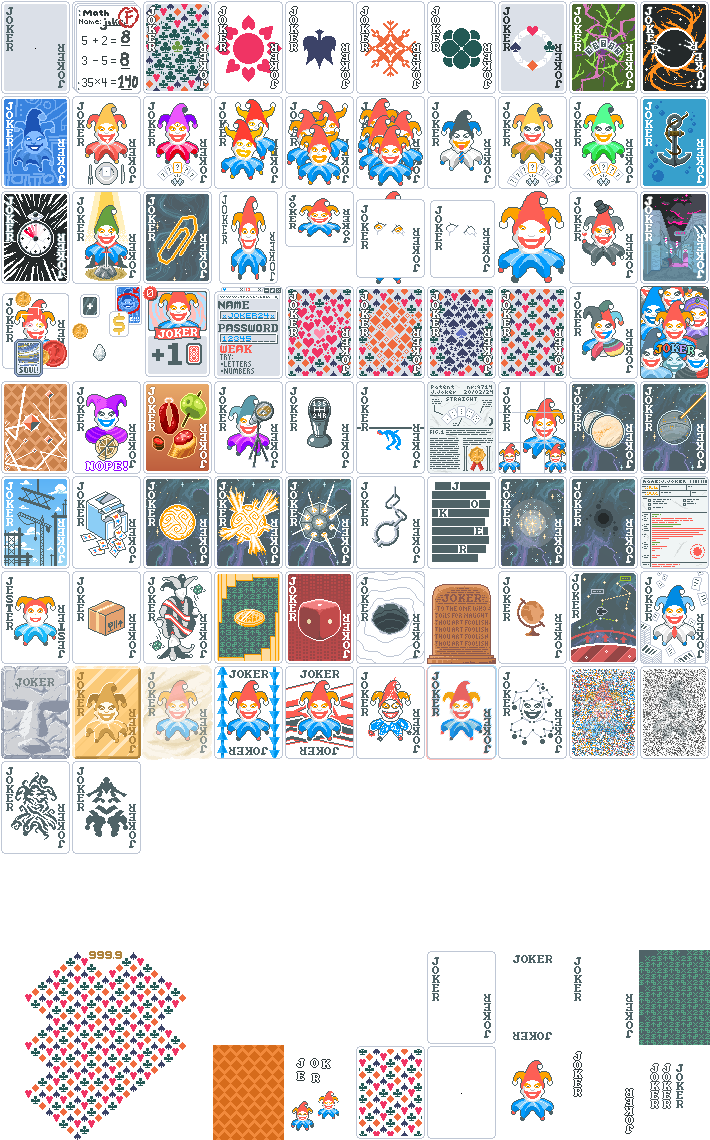
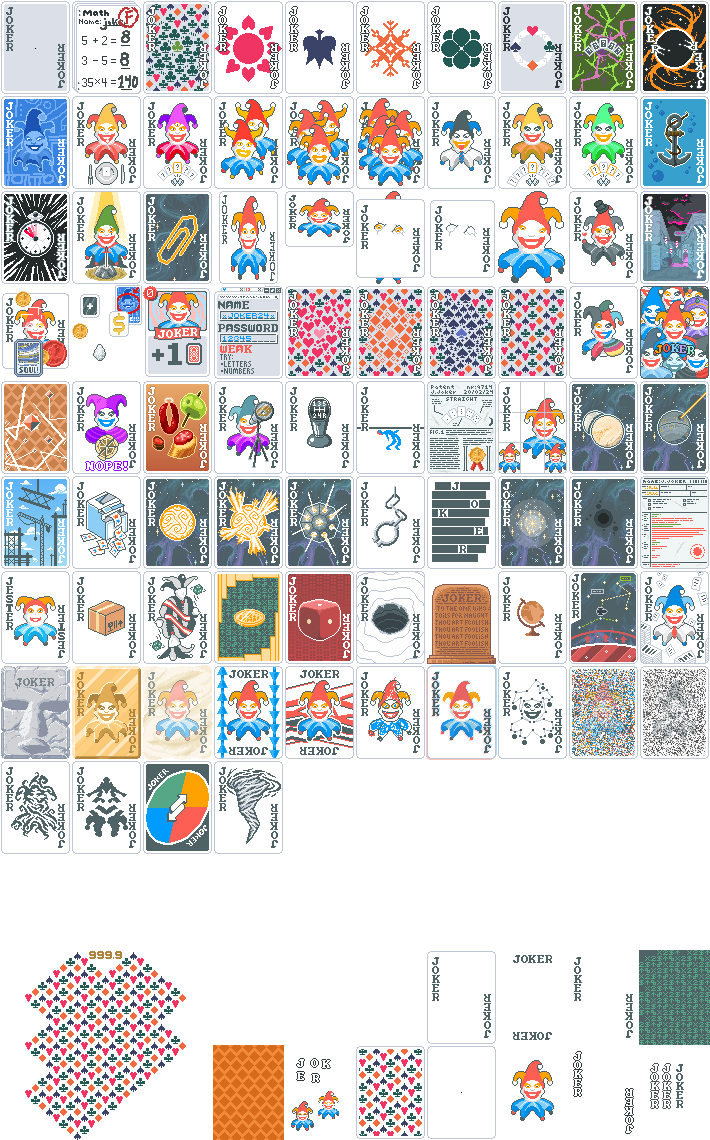
Add Tornado

Changed region(s): [[0.1859, 0.6447, 0.4028, 0.7675]]

diff --git a/web/addjokers.js b/web/addjokers.js
@@ -598,6 +598,15 @@ let jokers = [
     image_url: "img/j/connect_the_dots.png",
     rarity: "Common"
   },
+  {
+    name: "Tornado",
+    text: [
+        "{C:attention}+2{} hand size",
+        "Discards held cards when hand is played",
+    ],
+    image_url: "img/j/tornado.png",
+    rarity: "Uncommon"
+  },
 
   // {
   //   name: "",
